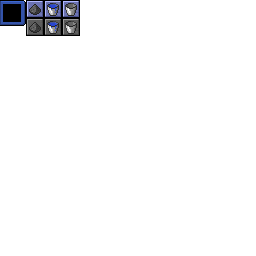
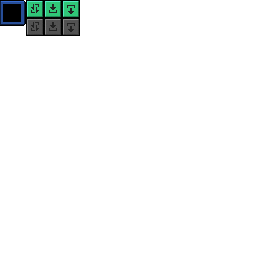
Tab测试
仅供测试，未做完

Changed region(s): [[0.0, 0.0, 0.3125, 0.1562]]

diff --git a/src/main/java/mekanism/client/gui/element/tab/GuiConfigTypeTab.java b/src/main/java/mekanism/client/gui/element/tab/GuiConfigTypeTab.java
@@ -26,7 +26,7 @@ public class GuiConfigTypeTab extends GuiElement {
     }
 
     private static ResourceLocation getResource(TransmissionType t) {
-        return MekanismUtils.getResource(ResourceType.GUI_ELEMENT, "Gui" + t.getTransmission() + "Tab.png");
+        return MekanismUtils.getResource(ResourceType.GUI_ELEMENT, "Gui" + t.getTransmission() + "Tab_colored.png");
     }
 
     public void setY(int y) {
@@ -64,7 +64,8 @@ public class GuiConfigTypeTab extends GuiElement {
         if (visible) {
             mc.renderEngine.bindTexture(RESOURCE);
             guiObj.drawTexturedRect(guiWidth + getLeftBound(false) - 4, guiHeight + yPos, 0, left ? 0 : 26, 26, 26);
-            guiObj.drawTexturedRect(guiWidth + getLeftBound(true), guiHeight + yPos + 4, 26, inBounds(xAxis, yAxis) ? 0 : 18, 18, 18);
+            guiObj.drawTexturedRect(guiWidth + getLeftBound(true), guiHeight + yPos + 4, 26,
+                    inBounds(xAxis, yAxis) ? 0 : 18, 18, 18);
             mc.renderEngine.bindTexture(defaultLocation);
         }
     }
